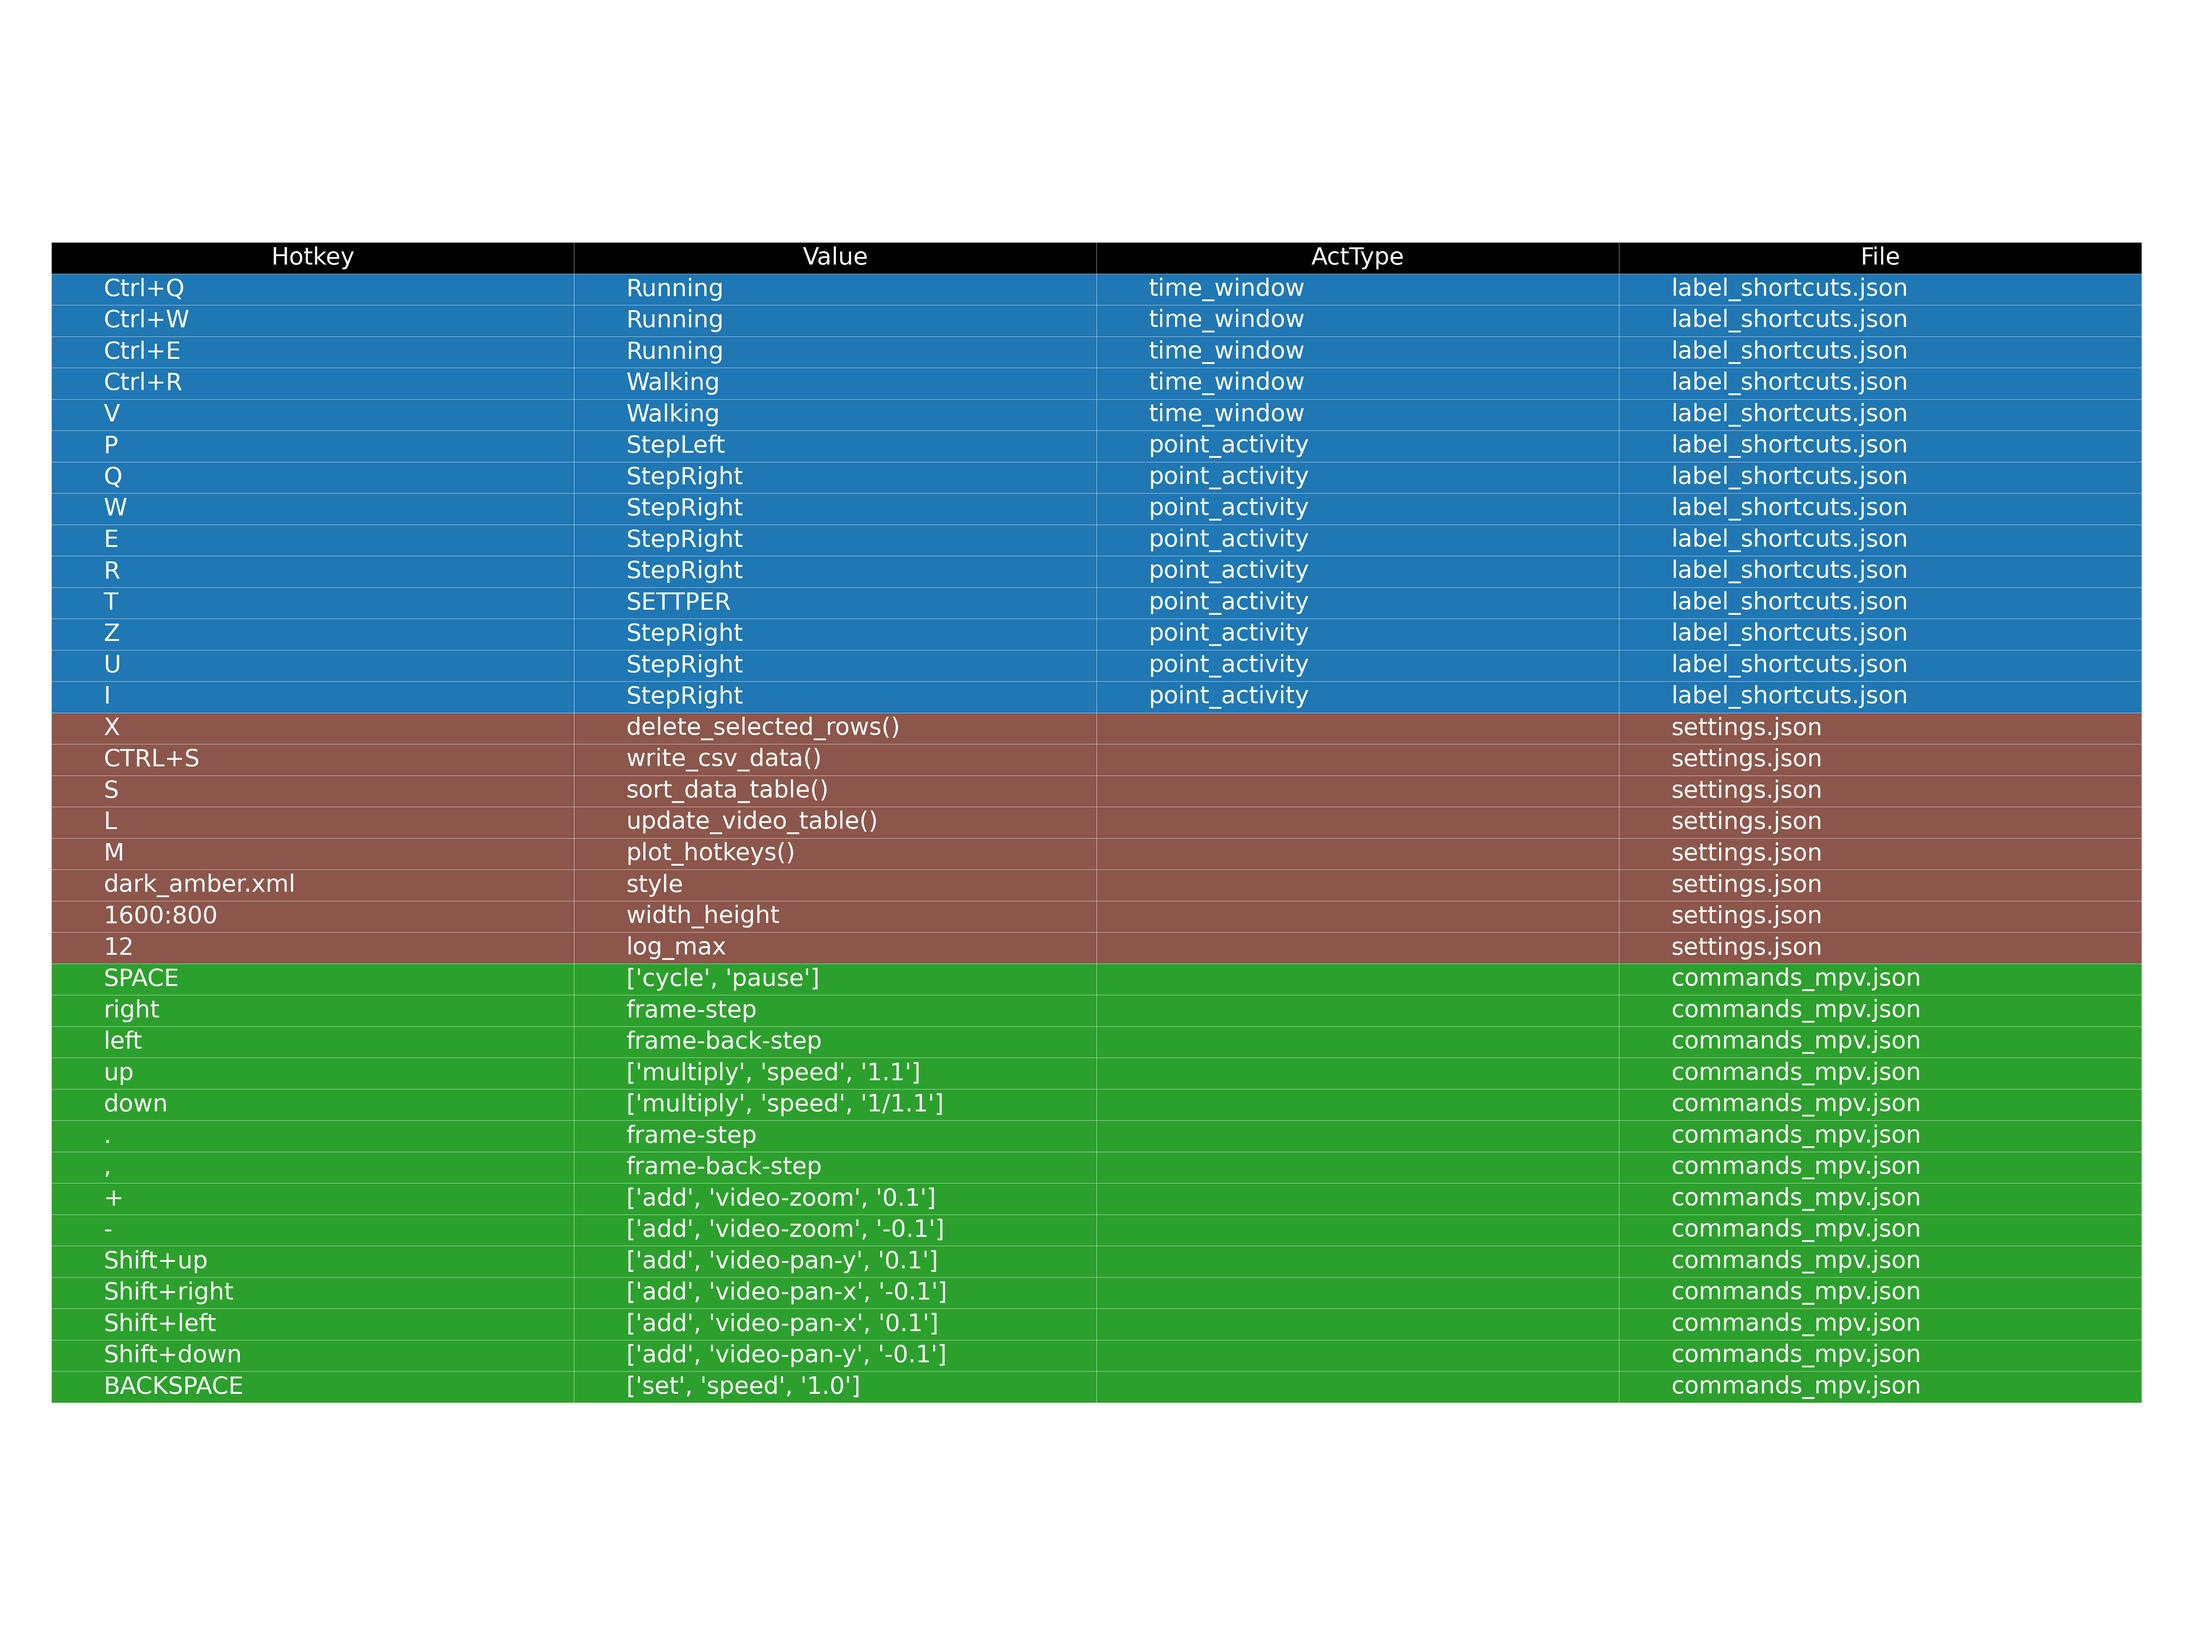
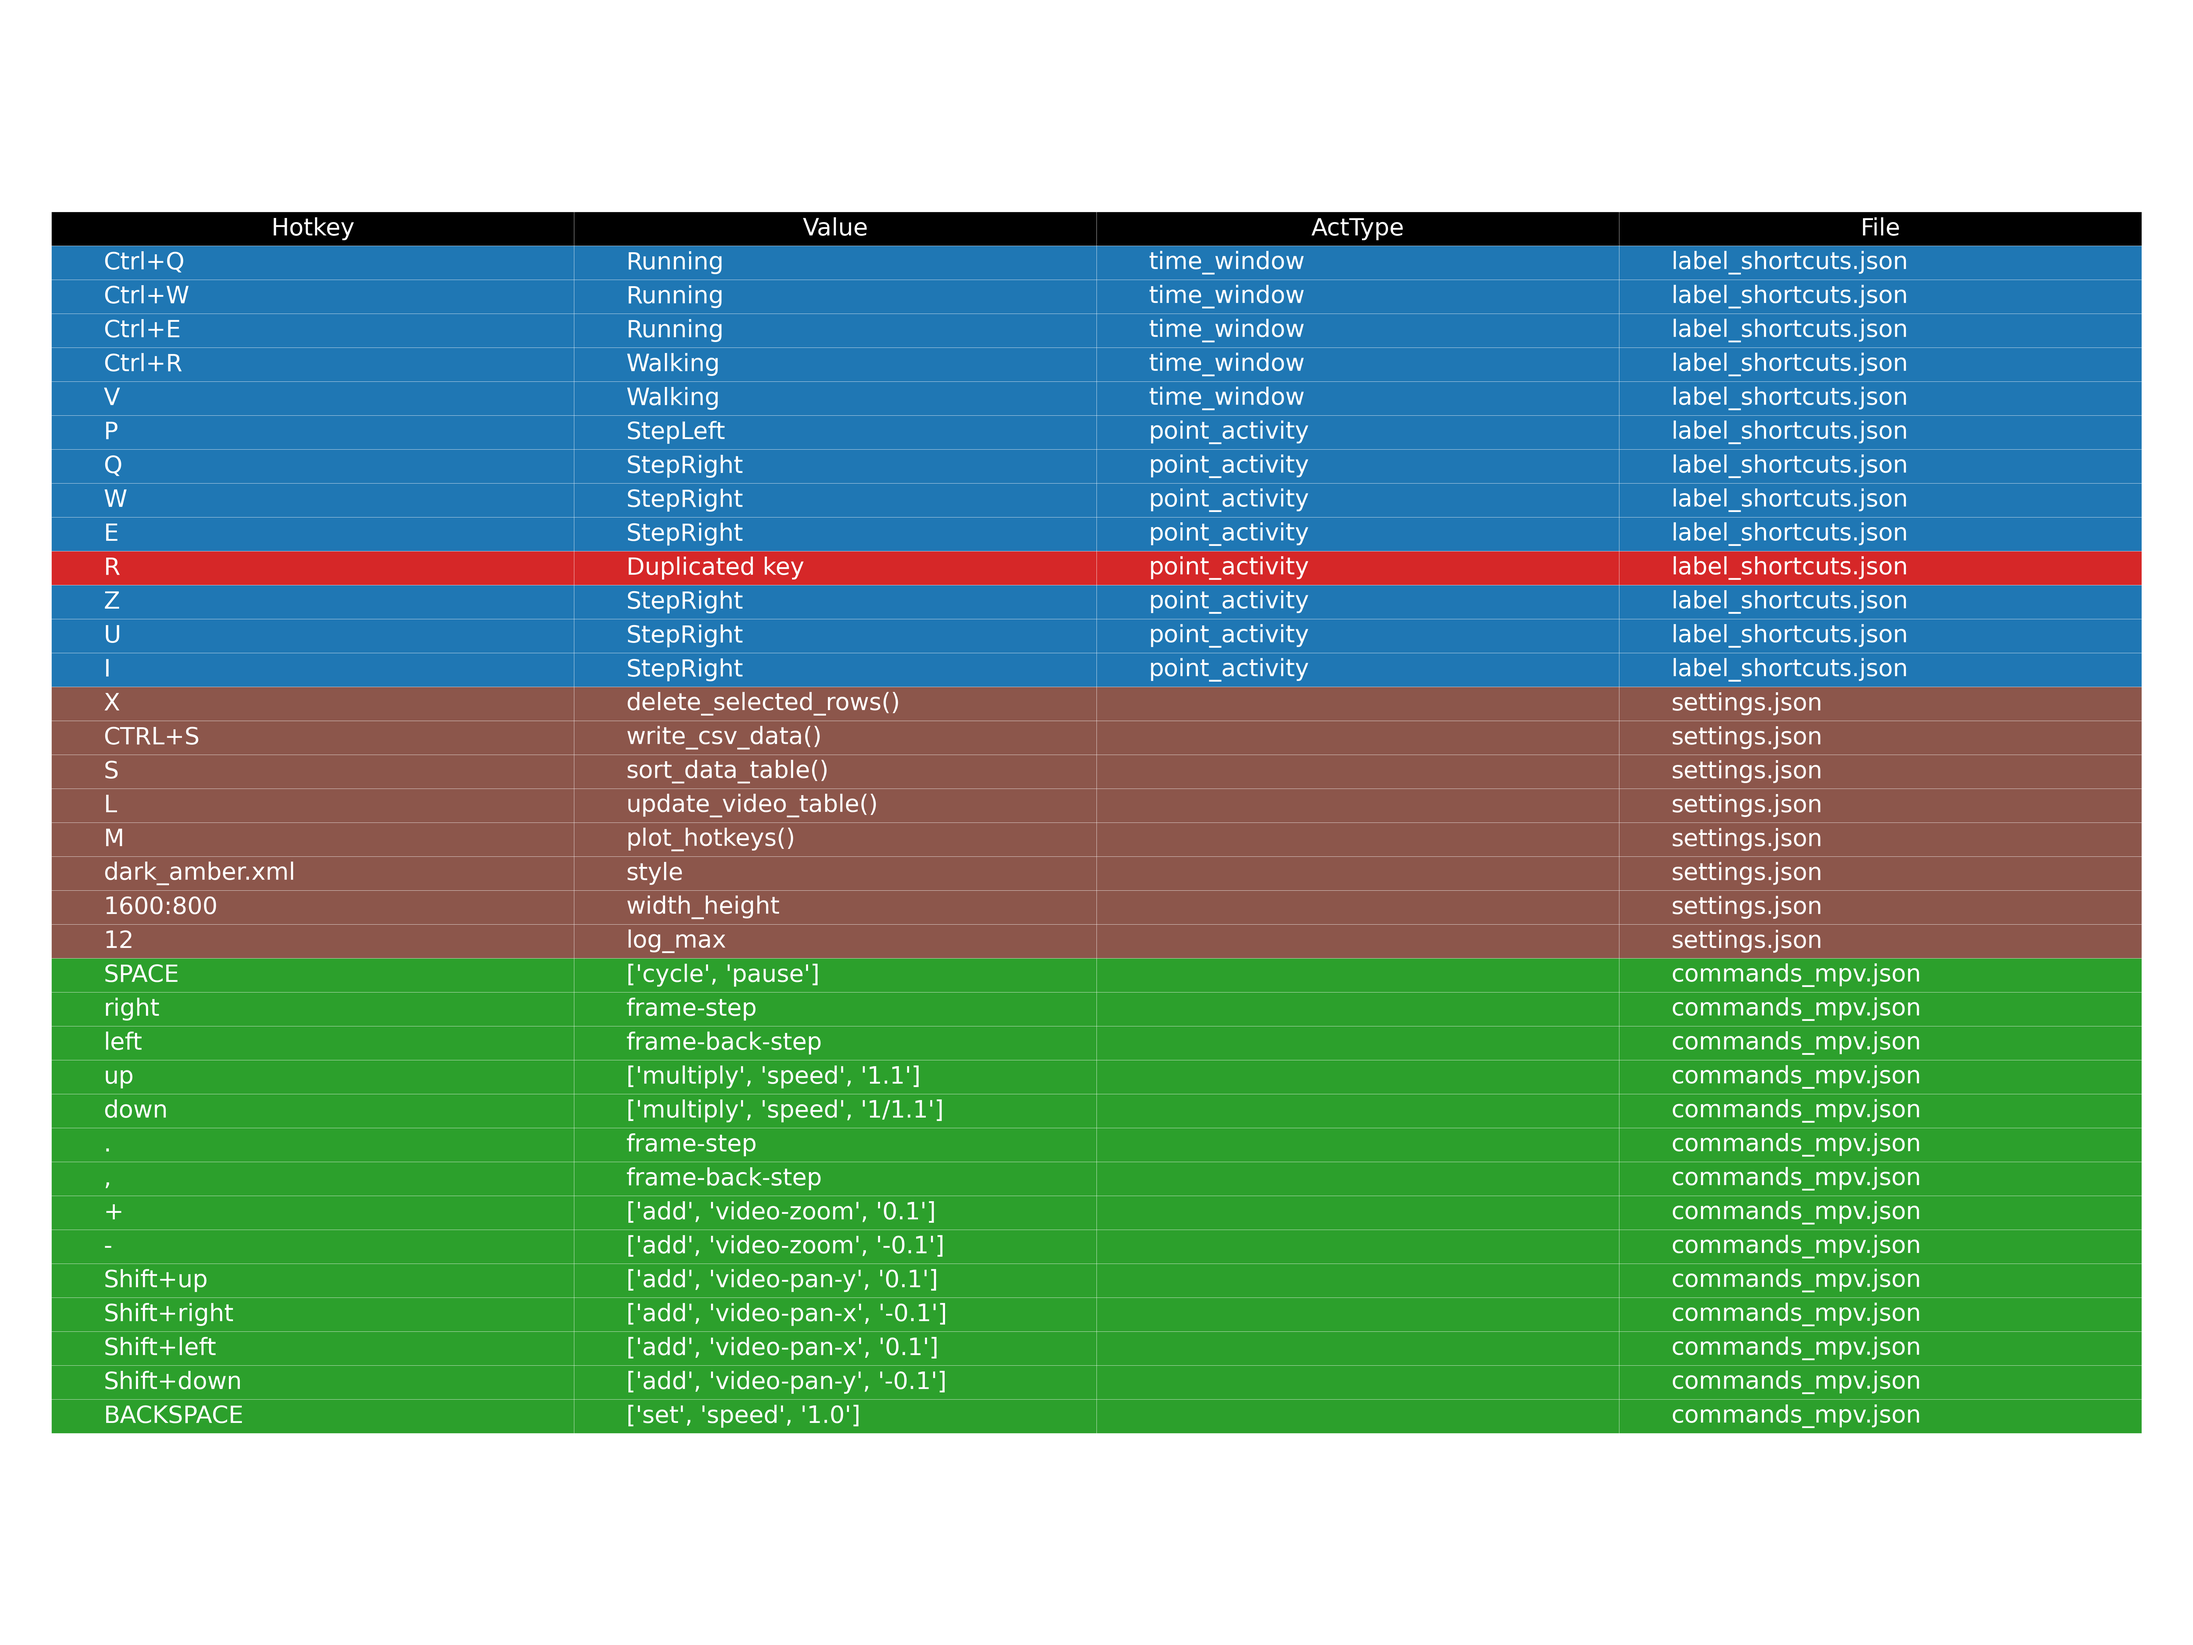
PEP8

Changed region(s): [[0.0, 0.125, 1.0, 0.875], [0.0312, 0.6562, 0.0938, 0.6875]]

diff --git a/video_labeler.py b/video_labeler.py
@@ -141,24 +141,6 @@ class Labeler(QMainWindow):
             else:
                 pass
 
-    def plot_hotkeys(self):
-        with open('settings.json', 'r') as file:
-            settings = json.load(file)
-        for settings_key, settings_value in settings.items():
-            pass
-
-        with open('commands_mpv.json', 'r') as file:
-            commands_mpv = json.load(file)
-        for commands_mpv_key, commands_mpv_value in commands_mpv.items():
-            pass
-
-        with open('label_shortcuts.json', 'r') as file:
-            label_shortcuts = json.load(file)
-
-        for act_type in label_shortcuts:
-            for label_shortcuts_key, label_shortcuts_value in label_shortcuts[act_type].items():
-                pass
-
     def label_shortcuts(self):
         """
         Will load the label_shortcuts.json file and process the shortcuts.
@@ -718,6 +700,7 @@ class Logger:
 class HotkeyPlotter:
 
     def __init__(self):
+        # noinspection PyUnresolvedReferences
         self.colormap = plt.get_cmap("tab10").colors
 
     def _check_for_duplicates(self, ordered_pairs):
@@ -790,7 +773,7 @@ class HotkeyPlotter:
         df = pd.concat([df, label_shortcuts], axis=0).reset_index(drop=True)
 
         df["Duplicates"] = df.duplicated(subset="Hotkey", keep=False)
-        df["Value"] = df["Value"].where(df["Duplicates"] == False, "Duplicated key")
+        df["Value"] = df["Value"].where(~df["Duplicates"], "Duplicated key")
         self._plot_hotkeys(df)
 
 
